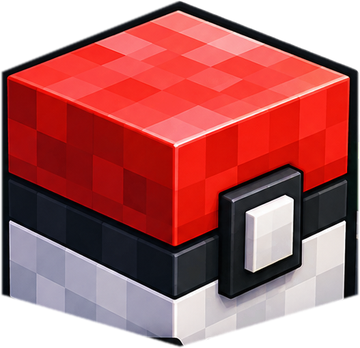
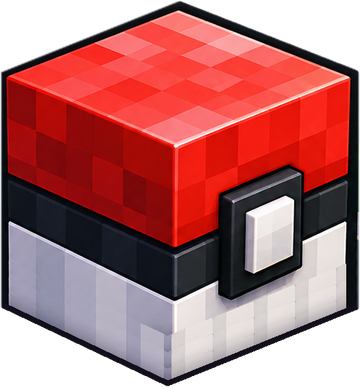
Launcher 2.5.3: cubo da abertura completo

diff --git a/src/app.css b/src/app.css
@@ -95,10 +95,10 @@ svg { width: 18px; height: 18px; fill: currentColor; flex: none; }
 .intro-line { position: absolute; left: 15%; right: 15%; top: 50%; height: 2px; opacity: 0; background: linear-gradient(90deg, transparent, var(--p2), #fff, var(--p2), transparent); box-shadow: 0 0 24px var(--p); }
 .intro-kicker { position: absolute; left: 0; right: 0; top: calc(50% + 22px); text-align: center; opacity: 0; font-family: var(--f-display); font-weight: 700; font-size: 14px; letter-spacing: .7em; color: var(--p2); }
 .intro-stage { position: absolute; inset: 0; z-index: 2; }
-.intro-cube { position: absolute; left: 50%; top: 46%; width: 220px; margin: -106px 0 0 -110px; opacity: 0; transform-origin: 50% 88%; will-change: transform; }
+.intro-cube { position: absolute; left: 50%; top: 46%; width: 220px; margin: -118px 0 0 -110px; opacity: 0; transform-origin: 50% 88%; will-change: transform; }
 .intro-cube img { display: block; width: 100%; filter: drop-shadow(0 18px 30px rgba(0,0,0,.6)); }
 .intro-btn-glow { position: absolute; left: 73%; top: 64%; width: 90px; height: 90px; margin: -45px 0 0 -45px; border-radius: 50%; opacity: 0; background: radial-gradient(circle, rgba(255,255,255,.95), rgba(255, 230, 150, .5) 35%, transparent 70%); mix-blend-mode: screen; }
-.intro-shadow { position: absolute; left: 50%; top: calc(46% + 98px); width: 240px; height: 36px; border-radius: 50%; opacity: 0; transform: translateX(-50%); background: radial-gradient(ellipse, rgba(0,0,0,.75), transparent 70%); }
+.intro-shadow { position: absolute; left: 50%; top: calc(46% + 108px); width: 240px; height: 36px; border-radius: 50%; opacity: 0; transform: translateX(-50%); background: radial-gradient(ellipse, rgba(0,0,0,.75), transparent 70%); }
 .intro-flash { position: absolute; left: 50%; top: 46%; width: 520px; height: 520px; border-radius: 50%; opacity: 0; transform: translate(-50%, -50%); background: radial-gradient(circle, #fff 0%, rgba(255, 240, 200, .9) 18%, rgba(var(--accent-rgb), .45) 45%, transparent 70%); mix-blend-mode: screen; z-index: 4; }
 .intro-logo { position: absolute; left: 50%; top: 44%; width: min(560px, 46vw); aspect-ratio: 720 / 673; opacity: 0; transform: translate(-50%, -50%); overflow: hidden; }
 .intro-logo img { width: 100%; height: 100%; display: block; }
